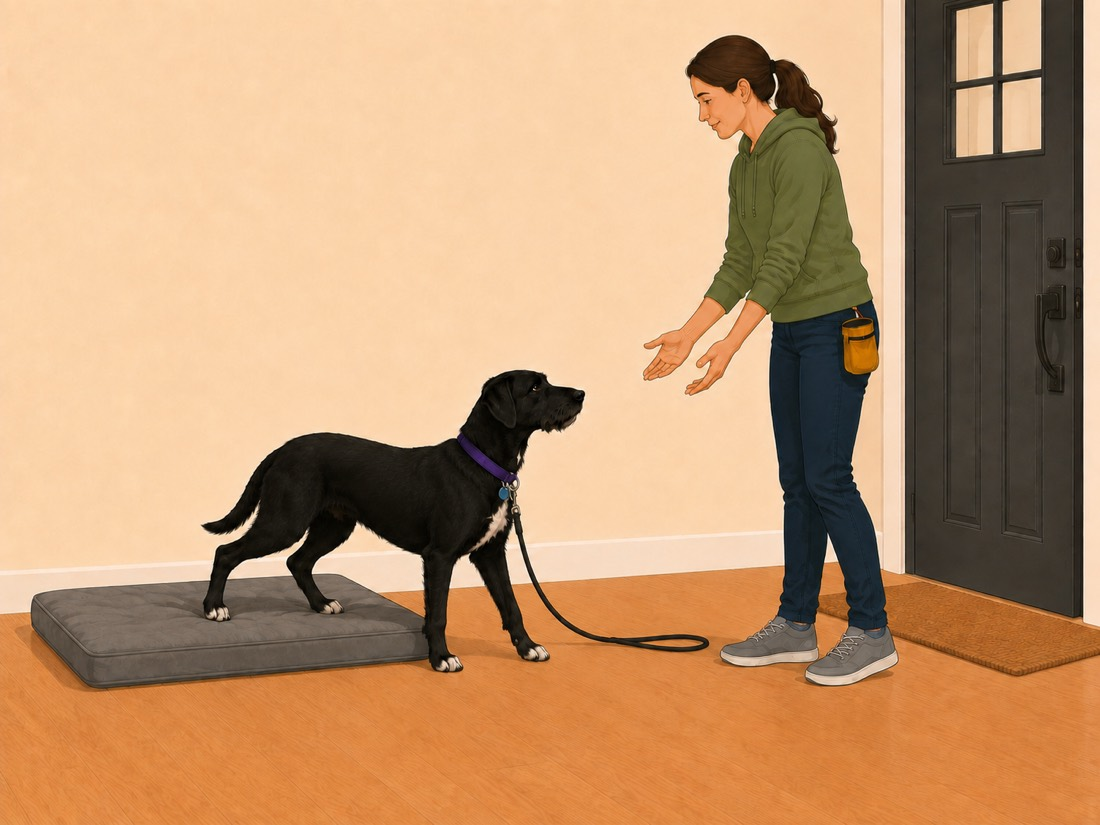
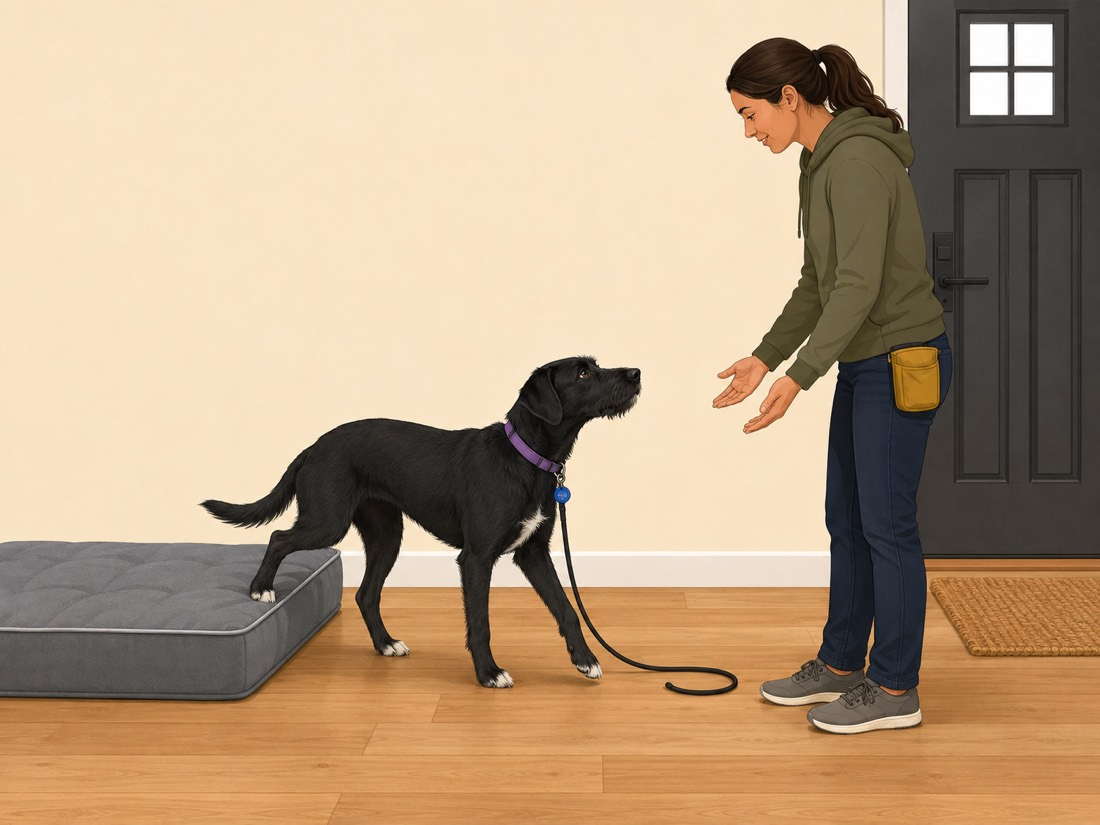
Get Lucy off the bed, and check it with the same blind eyes that failed it
The release image failed the pilot 4/4 — every viewer described a dog standing
on the mat, because front-feet-down with both hind feet up is a pose rather than
a departure. The amended brief asked for most of her off it: both front feet and
one hind foot on the floorboards, only the back foot still touching the edge,
weight over the floor rather than the bed.

Checked the same way it was failed, by viewers who had not seen the first
attempt. "The dog is off the bed — standing on the wood floor beside it." Shown
against `door-place-03-send` and asked which one sends her to the bed and which
invites her off it, a third viewer got both right, which means the Block B pair
those two exist to be told apart by now works.

One cost recorded rather than smoothed over: a viewer seeing only this picture
called the gesture "unclear — inviting the dog forward or something else", where
all four viewers of the first version read the open hands as an invitation
unprompted. The departure was bought at a little of the invitation. Not enough
to reject; worth watching when a panel sees it.

Installed rather than parked in approved/. An approved image sitting uninstalled
is the specific trap this project has already fallen into twice, with
`door-sound-01-setup` and `door-greet-07-approach`, and both times it left an
activity half-restyled while the checker reported clean.

`door-stay-03-onestep` is still outstanding — brief amended, not yet redrawn.

Version 1.61.0 to 1.62.0.

diff --git a/js/version.js b/js/version.js
@@ -10,7 +10,7 @@
  * The 1.12 lineage continues the old hand-bumped cache names, which reached
  * lucy-learns-v11 before this file existed.
  */
-export const APP_VERSION = '1.61.0';
+export const APP_VERSION = '1.62.0';
 
 /**
  * The day this build went out, shown under the version on the splash.

diff --git a/docs/comprehension-pilot.md b/docs/comprehension-pilot.md
@@ -94,12 +94,30 @@ a transition needs the picture to show a body most of the way through it, not
 balanced at the moment of change.** Stills are bad at "about to" and "just
 beginning to".
 
-## What happens next
+## Re-runs
 
-Both briefs are amended in [pilot-prompts.md](pilot-prompts.md) — Scenes 25 and
-28 — and carry a note recording why. Re-run those two, install, and re-run this
-dry run before booking a panel; if they pass here, Block A is worth paying for.
+### `door-stay-05-release` — fixed and installed at 1.62.0
 
-Pair **P2** in Block B (`door-stay-03-cross` vs `door-stay-03-halfway`) should
-be expected to fail until `onestep` is redrawn — three images currently read as
-the same picture of a person walking toward a door.
+Redrawn against the amended brief: most of her off the bed, one back foot still
+touching its edge, weight over the floor. Checked blind again, three viewers,
+none of whom had seen the first attempt.
+
+- *"The dog is off the bed — standing on the wood floor beside it"*
+- *"standing on the wood floor with one front paw still resting on the edge of a
+  gray dog bed"*
+- Shown against `door-place-03-send` and asked which sends her **to** the bed
+  and which invites her **off** it, a third viewer got both right — so Block B's
+  pair **P1** works as well.
+
+That clause failed 4/4 before and passes now. One thing to watch: a viewer who
+saw only this picture said the gesture's purpose was "unclear — inviting the dog
+forward or something else", where all four viewers of the first version read the
+open hands as an invitation without prompting. The departure was bought at a
+little cost to the invitation. Not enough to reject, worth watching in the
+panel.
+
+### `door-stay-03-onestep` — outstanding
+
+Brief amended, not yet redrawn. Pair **P2** in Block B (`door-stay-03-cross` vs
+`door-stay-03-halfway`) should be expected to fail until it is: three images
+currently read as the same picture of a person walking toward a door.
